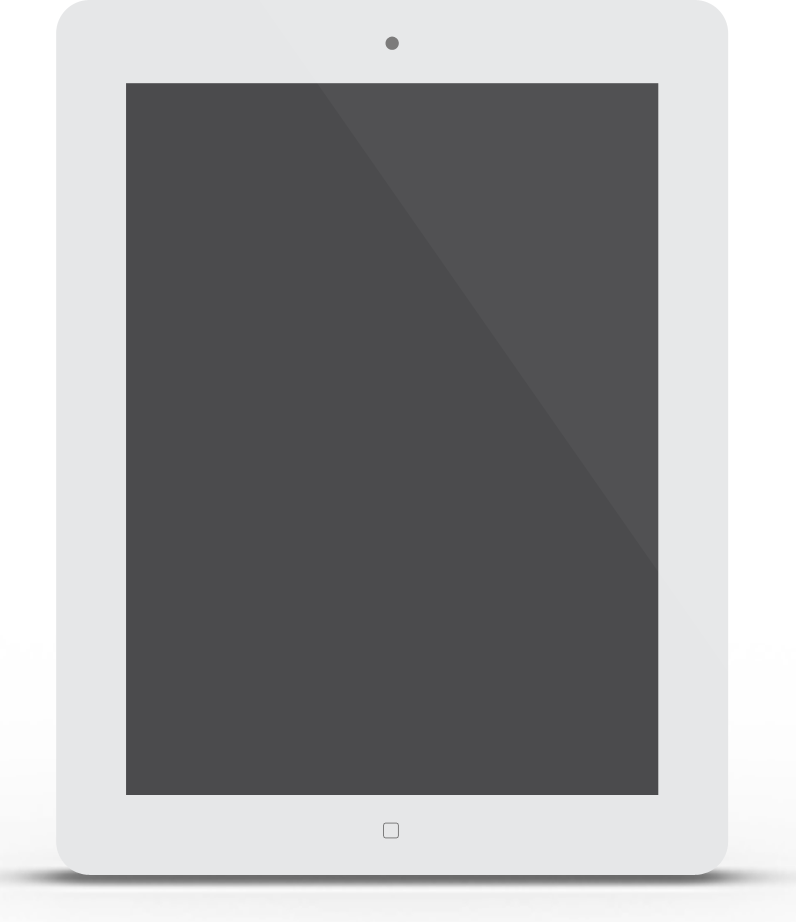
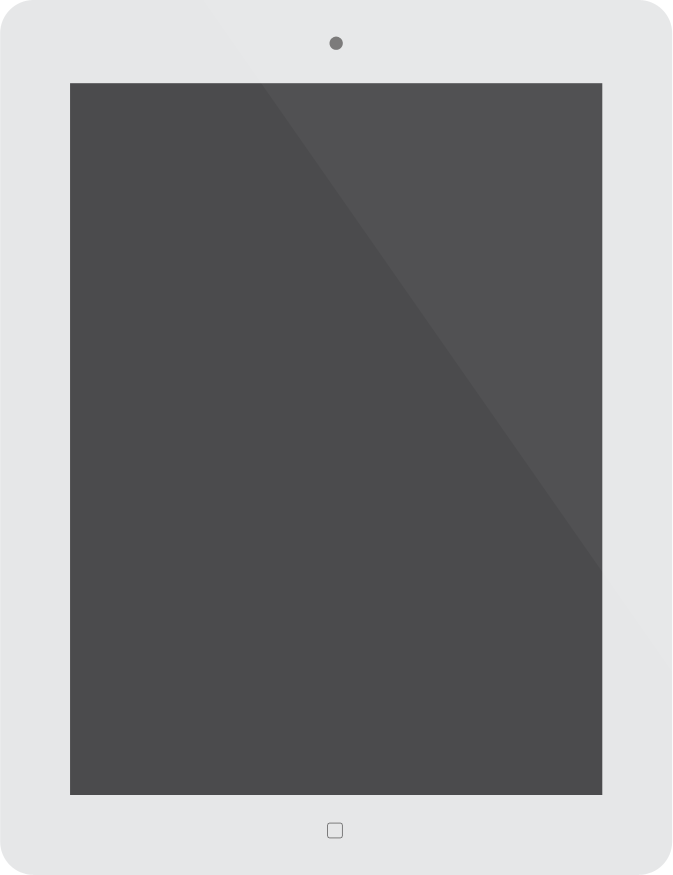
-

Changed region(s): [[0.0, 0.0, 0.9361, 0.9874]]

diff --git a/src/page5/__pictures/page5__pictures.sass b/src/page5/__pictures/page5__pictures.sass
@@ -4,13 +4,21 @@
 .page5__pictures-ipad
 	position: absolute
 	top: 0px
-	left: 60px
-	width: 478px
+	left: 94px
+	width: 403px
 	z-index: 1
 .page5__pictures-iphone
 	position: absolute
 	top: 88px
-	left: 369px
-	width: 260px
-	height: 453px
+	left: 395px
+	width: 205px
+	height: 436px
 	z-index: 2
+.page5__pictures:after
+    content: ''
+    width: 526px
+    position: absolute
+    top: 526px
+    left: 70px
+    border-bottom: 0px solid #5a5a5a
+    box-shadow: 15px 0px 12px 2px #000

diff --git a/src/main.sass b/src/main.sass
@@ -45,10 +45,12 @@ body, .main
 	position: absolute
 	background-color: $colorPink
 	color: #fff
+	text-align: center
+	padding: 20px 5px 22px 5px
+	letter-spacing: 1.7px
 	font-family: $textFont
-	padding-top: 20px
-    padding-bottom: 21px
-    text-align: center
+	font-size: 19pt
+
 =rhomb()
 	background-size: cover
 	overflow: hidden

diff --git a/src/page5/page5.sass b/src/page5/page5.sass
@@ -1,5 +1,8 @@
 .page5
 	background: url(../img/page5_fon.jpg) no-repeat
 	background-size: cover
-	height: 921px
+	height: 781px
 	padding-top: 140px
+	position: relative
+	.g-wrap
+		height: 781px

diff --git a/src/page5/__button/page5__button.sass b/src/page5/__button/page5__button.sass
@@ -1,2 +1,5 @@
 .page5__button
 	+button()
+	right: 304px
+	bottom: 201px
+	width: 199px
